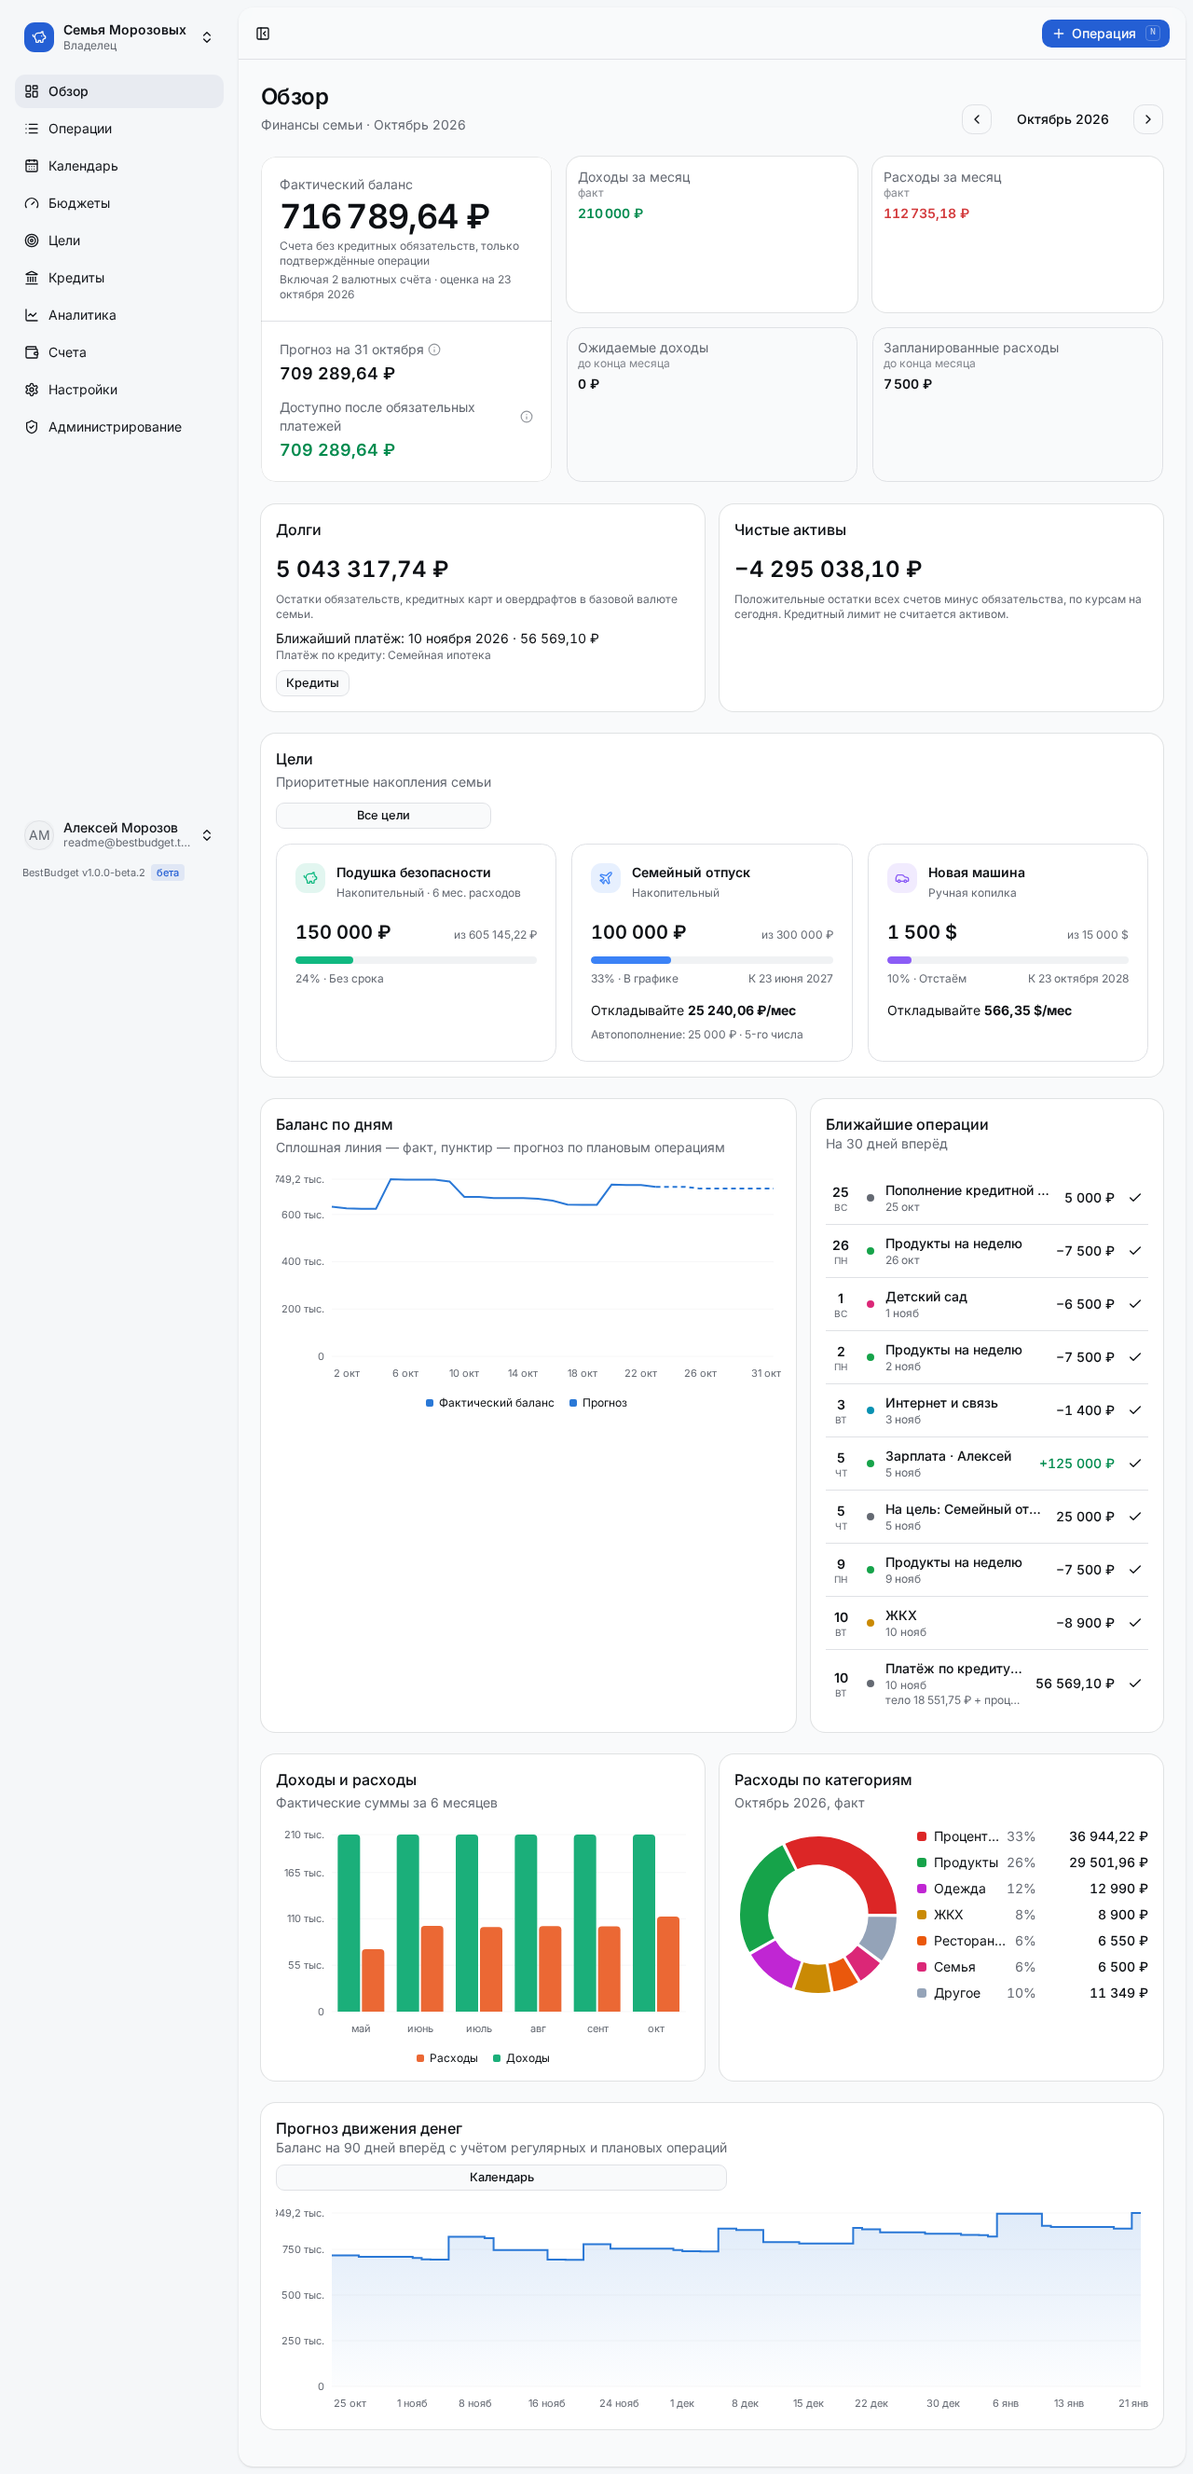
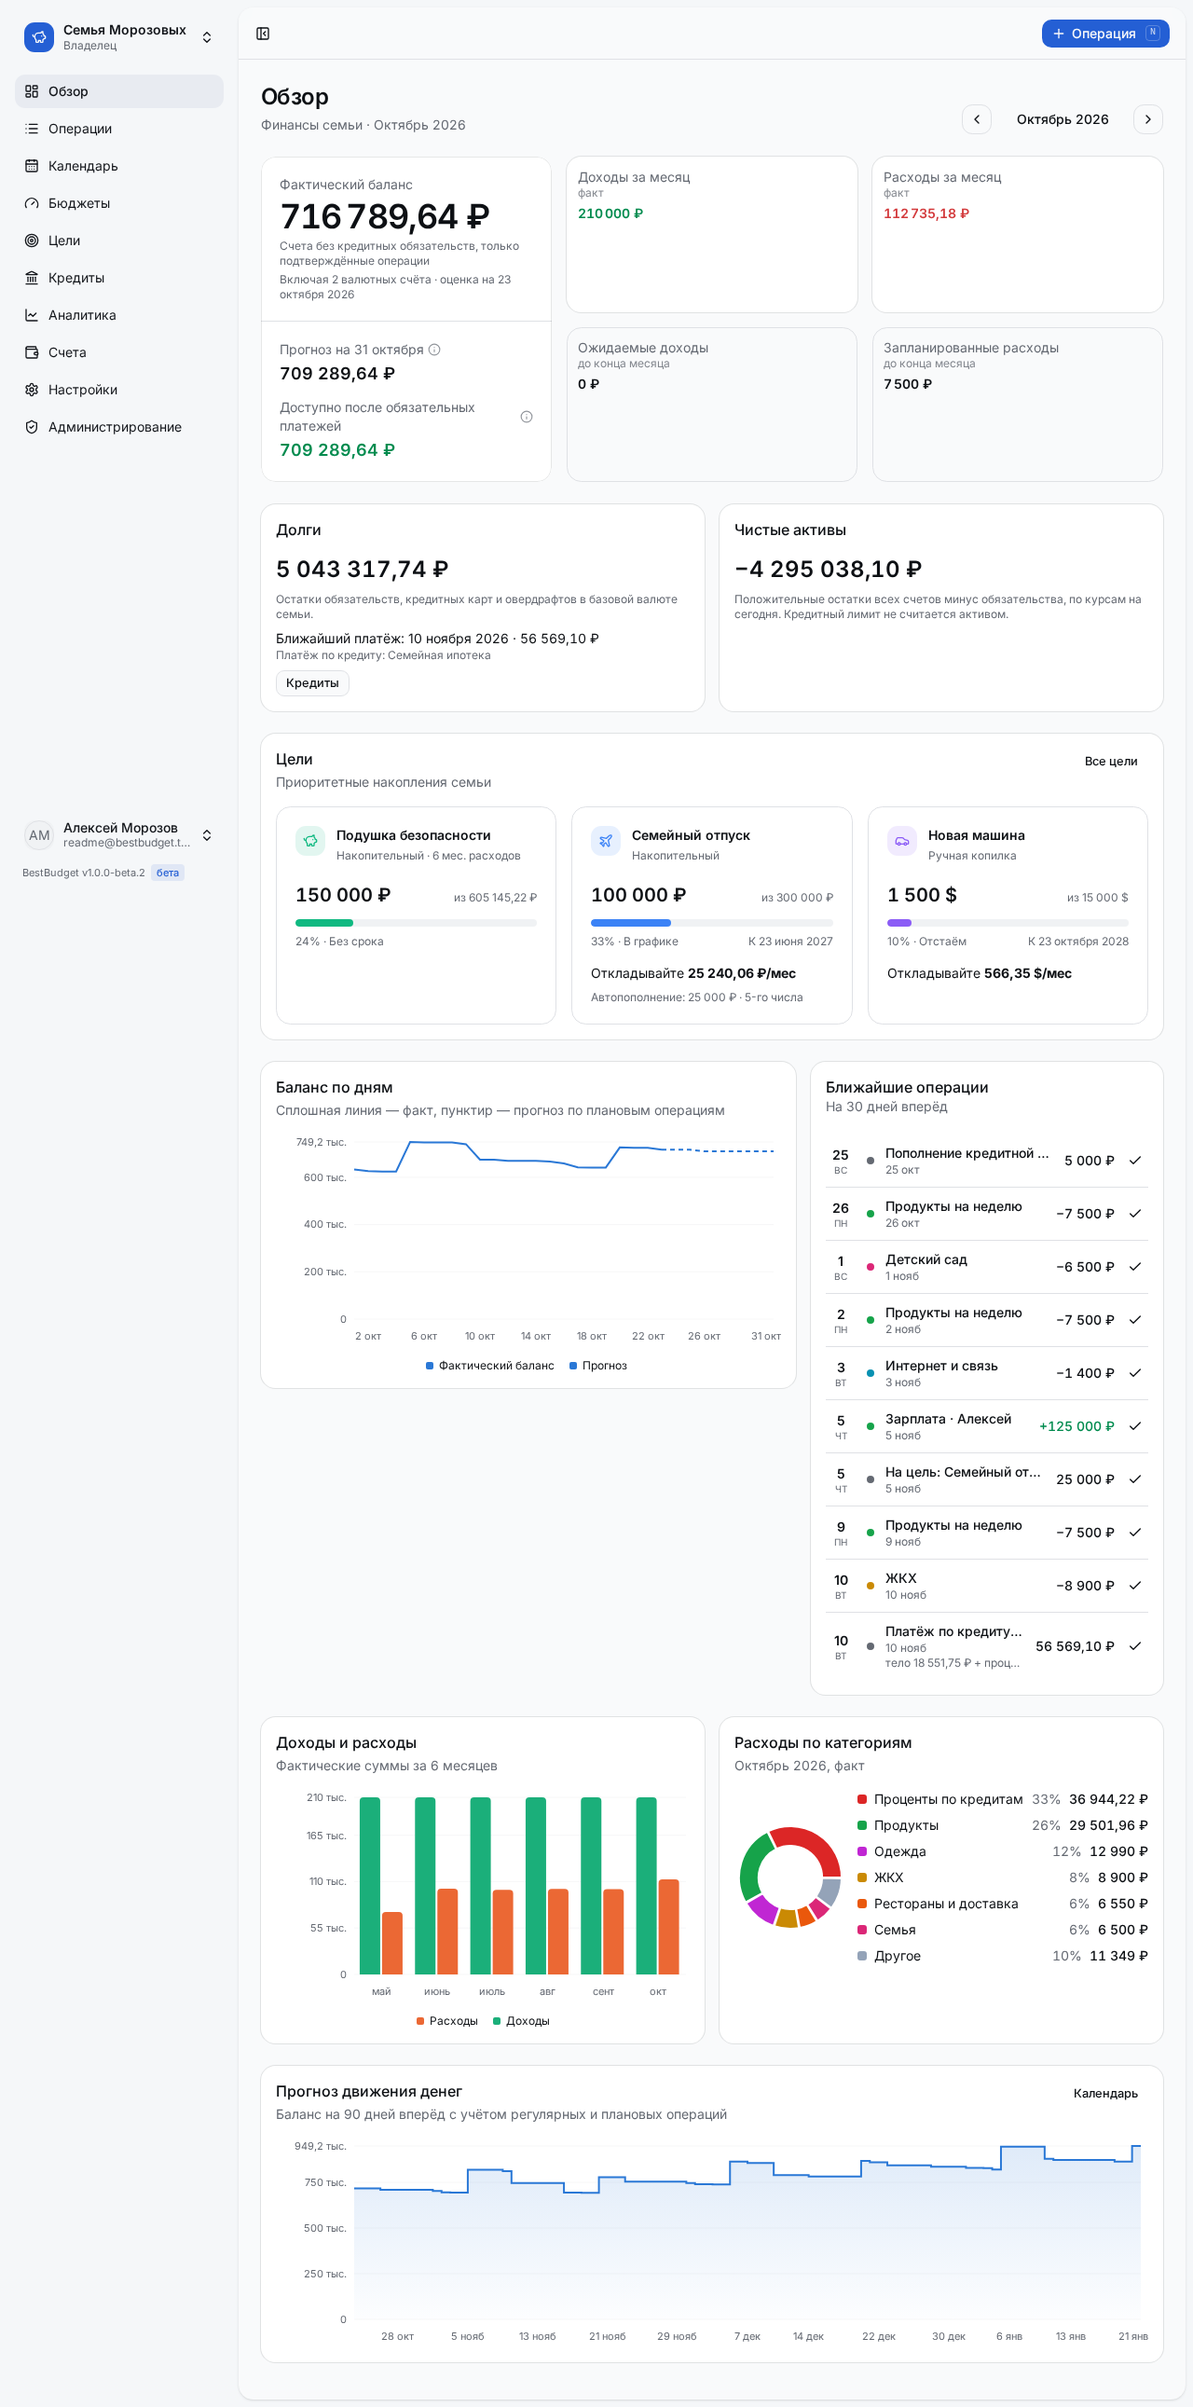
fix: polish dashboard actions and chart layout

diff --git a/tests/screenshots/readme.spec.ts b/tests/screenshots/readme.spec.ts
@@ -7,7 +7,7 @@ import { E2E_ENV, SETUP_TOKEN } from "../../playwright.config"
 const DEMO = { name: "Алексей Морозов", email: "readme@bestbudget.test", password: "readme-demo-password-1" }
 const DIR = "docs/screenshots/readme"
 const ROUTES = [
-  "/dashboard", "/transactions", "/transactions?tab=rules", "/calendar", "/budgets", "/goals", "/loans", "/loans/new", "/analytics", "/accounts",
+  "/dashboard", "/transactions", "/transactions/import", "/transactions?tab=rules", "/calendar", "/budgets", "/goals", "/loans", "/loans/new", "/analytics", "/accounts",
   "/settings", "/settings?tab=categories", "/settings?tab=profile", "/admin", "/admin?tab=households", "/admin?tab=auth", "/admin?tab=rates", "/admin?tab=events", "/admin?tab=notifications",
 ]
 
@@ -70,6 +70,22 @@ test("seed-demo: README captures and all pages at 1280/375 in both themes", asyn
           const money = page.getByTestId("actual-balance").locator("span[aria-label]").first()
           await expect(money).toHaveText(/\d,\d{2}\s₽/)
           await expect(money).not.toHaveText(/\d\.\d{2}\s₽/)
+          for (const name of ["Все цели", "Календарь"]) {
+            const link = page.getByRole("main").last().getByRole("link", { name, exact: true })
+            await expect(link.locator("..")).toHaveAttribute("data-slot", "card-action")
+            expect((await link.boundingBox())!.width).toBeLessThan(120)
+          }
+          if (width >= 1280) {
+            const categoryCard = page.locator('[data-slot="card"]').filter({ has: page.getByText("Расходы по категориям", { exact: true }) })
+            for (const name of ["Проценты по кредитам", "Рестораны и доставка"]) {
+              await expect(categoryCard.getByText(name, { exact: true })).toHaveCSS("text-overflow", "clip")
+            }
+            const balanceCard = page.locator('[data-slot="card"]').filter({ has: page.getByText("Баланс по дням", { exact: true }) })
+            const plot = balanceCard.locator('[data-slot="chart"]')
+            const cardBox = (await balanceCard.boundingBox())!
+            const plotBox = (await plot.boundingBox())!
+            expect(cardBox.y + cardBox.height - plotBox.y - plotBox.height).toBeLessThan(40)
+          }
         }
         if (route === "/goals") {
           const emergency = page.getByTestId("goal-card").filter({ hasText: "Подушка безопасности", visible: true })
@@ -87,9 +103,17 @@ test("seed-demo: README captures and all pages at 1280/375 in both themes", asyn
           }).map((e) => `${e.tagName}.${e.className}: ${e.textContent?.slice(0, 60)}`).slice(0, 15),
           isoDates: document.querySelector("main")?.innerText.match(/\b\d{4}-\d{2}-\d{2}\b/g) ?? [],
           scrollWidth: document.documentElement.scrollWidth,
+          axisLabels: document.querySelectorAll('.recharts-cartesian-axis-tick-labels text').length,
+          clippedAxes: [...document.querySelectorAll('.recharts-cartesian-axis-tick-labels text')].filter((e) => {
+            const box = e.getBoundingClientRect()
+            const svg = e.closest('svg')!.getBoundingClientRect()
+            return box.width > 0 && (box.left < svg.left - 1 || box.right > svg.right + 1 || box.top < svg.top - 1 || box.bottom > svg.bottom + 1)
+          }).map((e) => e.textContent),
         }))
         audit.push({ route, width, theme, overflow: finding.overflow, isoDates: finding.isoDates })
         expect.soft(finding.scrollWidth, `${theme} ${width} ${route}`).toBeLessThanOrEqual(width)
+        if (["/dashboard", "/analytics", mortgage, vacation].includes(route)) expect(finding.axisLabels).toBeGreaterThan(0)
+        expect.soft(finding.clippedAxes, `${theme} ${width} ${route}: clipped axis labels`).toEqual([])
         expect.soft(finding.isoDates, `${theme} ${width} ${route}: ISO dates`).toEqual([])
         const slug = route.replaceAll(/[/?=]/g, "-")
         await page.screenshot({ path: testInfo.outputPath(`${theme}-${width}${slug}.png`), fullPage: true, animations: "disabled" })

diff --git a/src/app/(app)/dashboard/page.tsx b/src/app/(app)/dashboard/page.tsx
@@ -14,7 +14,7 @@ import { MonthSwitcher } from "@/components/app/month-switcher"
 import { UpcomingList } from "@/components/app/operations/upcoming-list"
 import { PageHeader } from "@/components/app/page-header"
 import { QuickAddButton } from "@/components/app/operations/quick-add-button"
-import { Card, CardContent, CardDescription, CardHeader, CardTitle } from "@/components/ui/card"
+import { Card, CardAction, CardContent, CardDescription, CardHeader, CardTitle } from "@/components/ui/card"
 import { Tooltip, TooltipContent, TooltipTrigger } from "@/components/ui/tooltip"
 import { formatDay, formatDayShort, formatMonth, monthKey, parseMonthKey, todayIn } from "@/lib/dates"
 import { cn } from "@/lib/utils"
@@ -123,7 +123,7 @@ export default async function DashboardPage({ searchParams }: { searchParams: Pr
 
       <GoalsWidget ctx={ctx} />
 
-      <div className="grid grid-cols-1 gap-4 xl:grid-cols-5">
+      <div className="grid grid-cols-1 items-start gap-4 xl:grid-cols-5">
         <Card className="xl:col-span-3">
           <CardHeader>
             <CardTitle>Баланс по дням</CardTitle>
@@ -176,14 +176,14 @@ export default async function DashboardPage({ searchParams }: { searchParams: Pr
       </div>
 
       <Card>
-        <CardHeader className="flex-row flex-wrap items-center justify-between gap-2">
-          <div>
-            <CardTitle>Прогноз движения денег</CardTitle>
-            <CardDescription>Баланс на 90 дней вперёд с учётом регулярных и плановых операций</CardDescription>
-          </div>
-          <LinkButton variant="outline" size="sm" href="/calendar">
-            Календарь
-          </LinkButton>
+        <CardHeader>
+          <CardTitle>Прогноз движения денег</CardTitle>
+          <CardDescription>Баланс на 90 дней вперёд с учётом регулярных и плановых операций</CardDescription>
+          <CardAction>
+            <LinkButton variant="ghost" size="sm" href="/calendar">
+              Календарь
+            </LinkButton>
+          </CardAction>
         </CardHeader>
         <CardContent>
           <ForecastChart data={d.forecast.map((f) => ({ label: formatDayShort(f.date), balance: f.balance }))} />

diff --git a/src/components/app/charts.tsx b/src/components/app/charts.tsx
@@ -55,7 +55,7 @@ function useMoneyAxis() {
   const { currency } = useCatalog()
   return {
     ...axisProps,
-    width: 56,
+    width: 80,
     allowDecimals: false,
     tickCount: 5,
     domain: [(min: number) => Math.min(0, min), (max: number) => (max <= 0 ? 100_00 : max)] as [(v: number) => number, (v: number) => number],
@@ -184,8 +184,8 @@ export function CategoryDonut({ data, currency = "RUB" }: { data: { name: string
   const total = slices.reduce((s, d) => s + d.total, 0)
   const config: ChartConfig = Object.fromEntries(slices.map((s, i) => [`c${i}`, { label: s.name, color: s.color }]))
   return (
-    <div className="grid items-center gap-4 sm:grid-cols-[minmax(0,180px)_1fr]">
-      <ChartContainer config={config} className="mx-auto aspect-square w-full max-w-[180px]">
+    <div className="grid grid-cols-1 items-center gap-3 sm:grid-cols-[144px_minmax(0,1fr)] xl:grid-cols-[120px_minmax(0,1fr)]">
+      <ChartContainer config={config} className="mx-auto aspect-square w-full max-w-36 xl:max-w-30">
         <PieChart>
           <ChartTooltip
             content={(p: RechartsTooltipProps) => {
@@ -206,9 +206,9 @@ export function CategoryDonut({ data, currency = "RUB" }: { data: { name: string
         {slices.map((s) => (
           <li key={s.name} className="flex items-center gap-2">
             <span className="size-2.5 shrink-0 rounded-[3px]" style={{ backgroundColor: s.color }} />
-            <span className="min-w-0 flex-1 truncate">{s.name}</span>
-            <span className="tabular text-muted-foreground">{Math.round((s.total / total) * 100)}%</span>
-            <span className="tabular w-28 text-right font-medium">{formatMoney(s.total, currency)}</span>
+            <span className="min-w-0 flex-1 truncate xl:overflow-visible xl:whitespace-normal xl:break-words xl:text-clip">{s.name}</span>
+            <span className="shrink-0 tabular text-muted-foreground">{Math.round((s.total / total) * 100)}%</span>
+            <span className="shrink-0 tabular text-right font-medium">{formatMoney(s.total, currency)}</span>
           </li>
         ))}
       </ul>

diff --git a/src/components/app/settings/section.tsx b/src/components/app/settings/section.tsx
@@ -1,14 +1,12 @@
-import { Card, CardContent, CardDescription, CardHeader, CardTitle } from "@/components/ui/card"
+import { Card, CardAction, CardContent, CardDescription, CardHeader, CardTitle } from "@/components/ui/card"
 
 export function Section({ title, description, children, action }: { title: string; description?: React.ReactNode; children: React.ReactNode; action?: React.ReactNode }) {
   return (
     <Card>
-      <CardHeader className="flex-row flex-wrap items-start justify-between gap-3">
-        <div>
-          <CardTitle>{title}</CardTitle>
-          {description ? <CardDescription className="mt-1">{description}</CardDescription> : null}
-        </div>
-        {action}
+      <CardHeader className="gap-x-3">
+        <CardTitle>{title}</CardTitle>
+        {description ? <CardDescription>{description}</CardDescription> : null}
+        {action ? <CardAction>{action}</CardAction> : null}
       </CardHeader>
       <CardContent>{children}</CardContent>
     </Card>

diff --git a/src/components/app/loans/loan-detail.tsx b/src/components/app/loans/loan-detail.tsx
@@ -103,7 +103,7 @@ export function LoanDetail({ data: d, today, canManage }: { data: Detail; today:
               >
                 <CartesianGrid strokeDasharray="3 3" stroke="var(--border)" />
                 <XAxis dataKey="date" tickFormatter={formatMonth} minTickGap={60} fontSize={11} />
-                <YAxis width={65} tickFormatter={(v: number) => formatMoneyCompact(v, d.currency)} fontSize={11} />
+                <YAxis width={80} tickFormatter={(v: number) => formatMoneyCompact(v, d.currency)} fontSize={11} />
                 <Tooltip
                   contentStyle={{ background: "var(--popover)", border: "1px solid var(--border)", borderRadius: 8 }}
                   formatter={(v) => formatMoney(Number(v), d.currency)}

diff --git a/src/components/app/goals/goals-widget.tsx b/src/components/app/goals/goals-widget.tsx
@@ -14,7 +14,7 @@ export async function GoalsWidget({ ctx }: { ctx: HouseholdCtx }) {
       title="Цели"
       description="Приоритетные накопления семьи"
       action={
-        <LinkButton href="/goals" variant="outline" size="sm">
+        <LinkButton href="/goals" variant="ghost" size="sm">
           Все цели
         </LinkButton>
       }

diff --git a/src/components/app/goals/goal-chart.tsx b/src/components/app/goals/goal-chart.tsx
@@ -36,7 +36,7 @@ export function GoalChart({
           tickFormatter={(v: number) => formatMoneyCompact(v, currency)}
           tickLine={false}
           axisLine={false}
-          width={55}
+          width={80}
           tick={{ fontSize: 11 }}
         />
         {target !== null ? <ReferenceLine y={target} stroke="var(--chart-2)" strokeDasharray="3 3" /> : null}

diff --git a/docs/screenshots/readme/README.md b/docs/screenshots/readme/README.md
@@ -17,15 +17,19 @@ npx -y pnpm@10.27.0 test:screenshots readme.spec.ts
 не используются. Курсы USD=95 RUB, EUR=100 RUB — синтетические. Повтор seed отклоняется без добавления данных.
 Даты seed считаются относительно «сегодня» в часовом поясе семьи; для новых скриншотов закреплённая дата не требуется.
 
-Проверяется 21 маршрут/вкладка × 1280/375 px × светлая/тёмная тема = **84 состояния**:
-обзор, операции, регулярные, календарь, бюджеты, цели, кредиты, создание кредита, аналитика, счета,
+Проверяется 22 маршрута/вкладки × 1280/375 px × светлая/тёмная тема = **88 состояний**:
+обзор, операции, регулярные, мастер импорта, календарь, бюджеты, цели, кредиты, создание кредита, аналитика, счета,
 все вкладки настроек и админки, детали ипотеки и цели. Сценарий проверяет ширину документа, отсутствие
-видимых ISO-дат, ошибок браузера, запятую в анимированном балансе и единственную подпись «Без срока».
+видимых ISO-дат, ошибок браузера, обрезки подписей осей X/Y, запятую в анимированном балансе и единственную подпись «Без срока».
 Полные снимки и JSON-аудит прикладываются к результатам в `work/playwright-screenshots/` (не в Git).
 В README показываются четыре выбранных снимка (два с тёмными вариантами); анимации отключены для воспроизводимости.
 
 Полировка по визуальному просмотру и ревью кода:
 
+- растянутые ссылки целей/календаря: `CardAction` и компактные кнопки;
+- пустота под графиком баланса: карточки выровнены по верхнему краю;
+- обрезка подписей денежных осей: ширина 80 px на общих графиках, целях и кредитах;
+- обрезка названий категорий на desktop: меньший донат и более широкая легенда с переносами;
 - точка вместо запятой в копейках анимированной суммы;
 - повтор «Без срока» в карточке цели;
 - ось многолетнего графика кредита без года;
